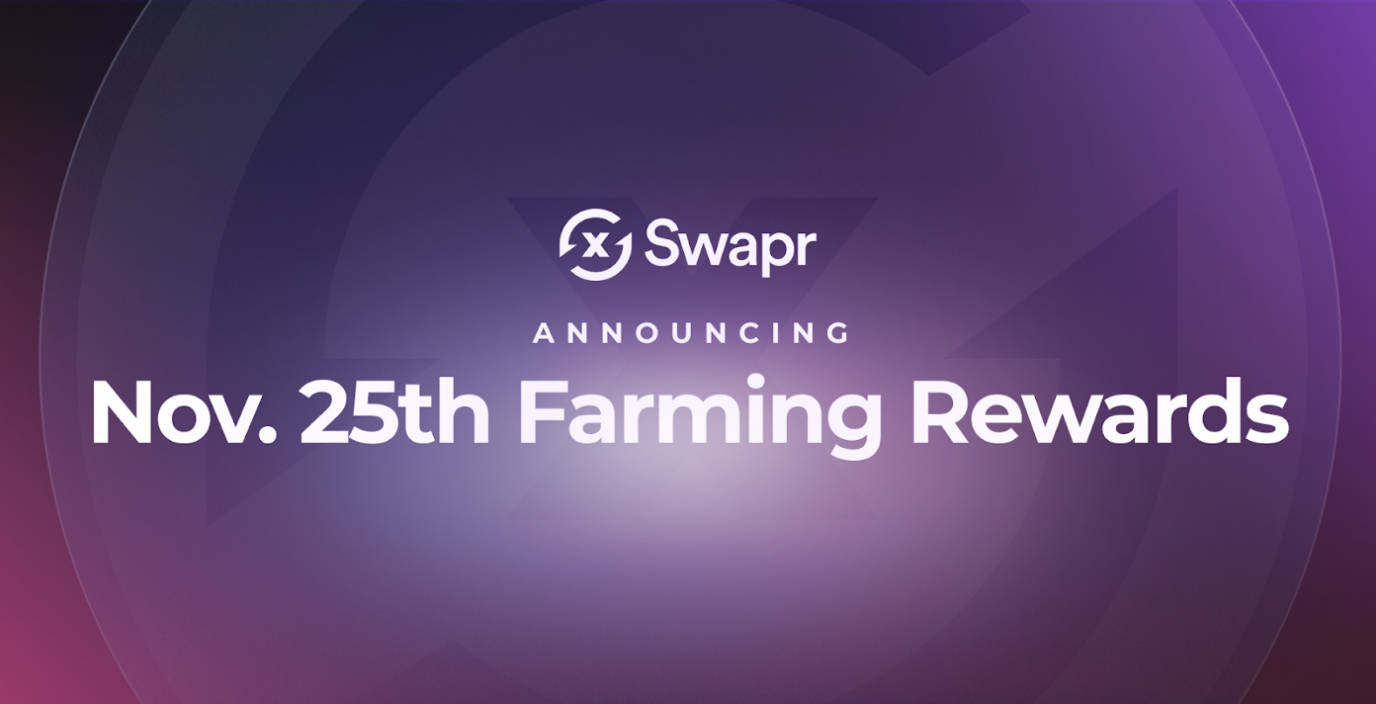
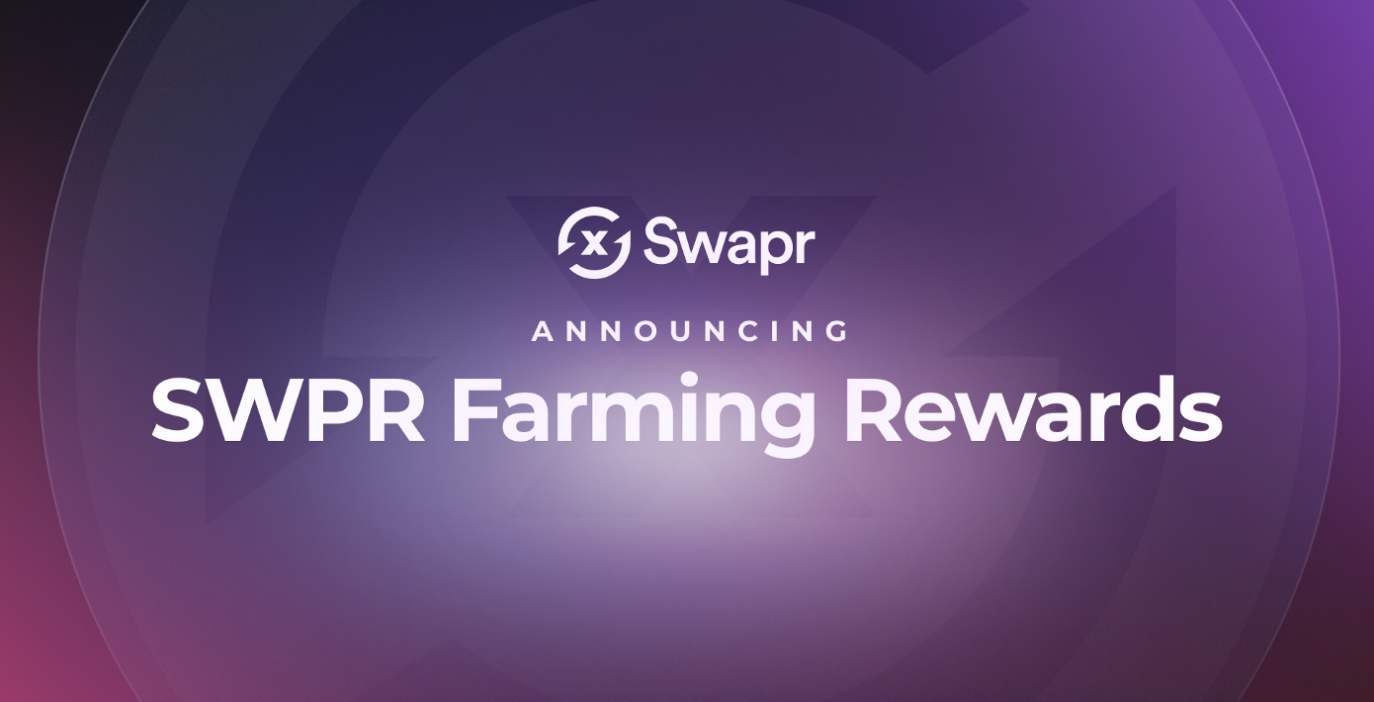
Changed stats

diff --git a/src/components/LandingPageComponents/Stats.js b/src/components/LandingPageComponents/Stats.js
@@ -10,18 +10,38 @@ import TextyAnim from 'rc-texty';
 const Stats = () => {
 
     let [tvl, setTvl] = useState(0);
+    let [swaprPrice, setSwaprPrice] = useState(0);
     let [isChartActive, setIsChartActive] = useState(false);
 
     useEffect(() => {
-        const fetchPromise = fetch('https://api.llama.fi/tvl/swapr')
-        fetchPromise.then((data) => {
+        const tvlPromise = fetch('https://api.llama.fi/tvl/swapr')
+        tvlPromise.then((data) => {
             return data.json();
         }).then((decodedTvl) => {
             let stringTvl = decodedTvl.toString();
             let splitTvlString = stringTvl.split('.');
             let integralTvl = splitTvlString[0].replace(/\B(?=(\d{3})+(?!\d))/g, ",");
             setTvl(integralTvl);
-        })
+        });
+
+        let coinCode = "arbitrum:0xde903e2712288a1da82942dddf2c20529565ac30"
+
+        let thing = {
+            "coins": [
+                coinCode
+            ]
+        };
+        const swaprPricePromise = fetch('https://coins.llama.fi/prices', {
+            method: 'POST',
+            body: JSON.stringify(thing)
+        });
+        swaprPricePromise.then((data) => {
+            return data.json();
+        }).then((decodedPrice) => {
+            let swaprPrice = decodedPrice.coins[coinCode].price.toString();
+            setSwaprPrice(swaprPrice)
+        });
+
     }, []);
 
     useEffect(() => {
@@ -47,6 +67,7 @@ const Stats = () => {
 
     let statsData = {
         'TVL': tvl,
+        'SWPR PRICE': swaprPrice
     };
 
     return (
@@ -63,16 +84,26 @@ const Stats = () => {
                         {statsItem.value && (
                                 <span className={`value ${!isChartActive ? 'hidden' : ''}`}>
                                     {isChartActive && (
-                                        statsItem.headingDollar && (
-                                            <TextyAnim type="flash">$</TextyAnim>
-                                        ),
-                                        statsItem.externalSource ? (
-                                            <TextyAnim type="flash">
-                                                {statsData[statsItem.title]}
-                                            </TextyAnim>
-                                            ) : (
-                                            statsItem.value
-                                        )
+                                        <>
+                                            <>
+                                                {
+                                                    statsItem.headingDollar && (
+                                                        <TextyAnim type="flash">$</TextyAnim>
+                                                    )
+                                                }
+                                            </>
+                                            <>
+                                            {
+                                                statsItem.externalSource ? (
+                                                    <TextyAnim type="flash">
+                                                        {statsData[statsItem.title]}
+                                                    </TextyAnim>
+                                                    ) : (
+                                                    statsItem.value
+                                                )
+                                            }
+                                            </>
+                                        </>
                                     )}
                                 </span>
                             )
@@ -379,6 +410,9 @@ const StyledStats = styled(Layout)`
                             'polygon(0 0, 100% 0, 100%, 0 0);'
                         };
                         background: linear-gradient(180deg, rgba(135, 128, 191, 0) 0%, #8780BF 51.04%, rgba(135, 128, 191, 0) 100%);
+                    }
+                    .value {
+                        overflow: hidden;
                     }
                 }
                 &.total-fees-collected,

diff --git a/src/utils/ui-constants.js b/src/utils/ui-constants.js
@@ -332,21 +332,21 @@ export const BlogContent = {
     posts: [
         {
             image: Entry1,
-            title: 'Swapr Dec 9th Farming Rewards',
-            content: 'Bi-weekly recap of upcoming SWPR token release schedule',
-            postLink: 'https://medium.com/swapr/swapr-dec-9th-farming-rewards-8c99521d5f84?source=collection_home---6------0-----------------------'
+            title: 'Announcing SWPR Token',
+            content: 'SWPR Token and Liquidity Mining',
+            postLink: 'https://medium.com/swapr/announcing-swpr-token-e8ab12dbad45'
         },
         {
             image: Entry2,
-            title: 'Swapr Nov 25th Farming Rewards',
-            content: 'Bi-weekly recap of upcoming SWPR token release schedule',
-            postLink: 'https://medium.com/swapr/swapr-nov-25th-farming-rewards-35c3ce51aeb5'
+            title: 'Introducing SWPR Token Farming Rewards',
+            content: 'Introducing SWPR Token Farming RewardsRecently, the DXdao community identified a misconfiguration with its governance framework on Arbitrum...',
+            postLink: 'https://medium.com/swapr/introducing-swpr-token-farming-rewards-7fbdcc9507ae'
         },
         {
             image: Entry3,
-            title: 'Swapr Nov 11th Farming Rewards',
-            content: 'Bi-weekly recap of upcoming SWPR token release schedule',
-            postLink: 'https://medium.com/swapr/swapr-nov-11th-farming-rewards-b99d71680b57'
+            title: 'Xdao and BadgerDAO Leverage Swapr to Bring Smarter BTC-focused Strategies to Arbitrum',
+            content: 'Both DXdao and BadgerDAO have strong communities that have been building interesting products in the DeFi space.',
+            postLink: 'https://medium.com/swapr/dxdao-and-badgerdao-leverage-swapr-to-bring-smarter-btc-focused-strategies-to-arbitrum-23689e0c9f2b'
         }
     ]
 }
@@ -449,18 +449,18 @@ export const StatsContent = {
     stats: [
         {
             title: 'TOTAL VOLUME',
-            value: <TextyAnim type="flash">$100,149,321</TextyAnim>,
+            value: <TextyAnim type="flash">$145,000,000+</TextyAnim>,
         },
         {
             title: 'TRADES',
             value: <>
-                <TextyAnim type="flash">1452</TextyAnim><TextyAnim type="flash" className="dim">0</TextyAnim><TextyAnim type="flash" className="hiddable-mobile">00</TextyAnim>
+                <TextyAnim type="flash">570,000+</TextyAnim>
                 </>,
         },
         {
             title: 'TOTAL FEES COLLECTED',
             value: <>
-                <TextyAnim type="flash">14,523</TextyAnim><TextyAnim type="flash" className="dim">00</TextyAnim>
+                <TextyAnim type="flash">$34,000+</TextyAnim><TextyAnim type="flash" className="dim"></TextyAnim>
                 </>,
         },
         {
@@ -468,10 +468,12 @@ export const StatsContent = {
             value: <>
                 <TextyAnim type="flash">$49</TextyAnim><TextyAnim type="flash" className="dim">0</TextyAnim><TextyAnim type="flash" className="hiddable-mobile">00</TextyAnim>
             </>,
+            externalSource: true,
+            headingDollar: true
         },
         {
             title: 'TVL',
-            value: <TextyAnim>$10,149,321</TextyAnim>,
+            value: <TextyAnim>10,149,321</TextyAnim>,
             externalSource: true,
             headingDollar: true,
         },
